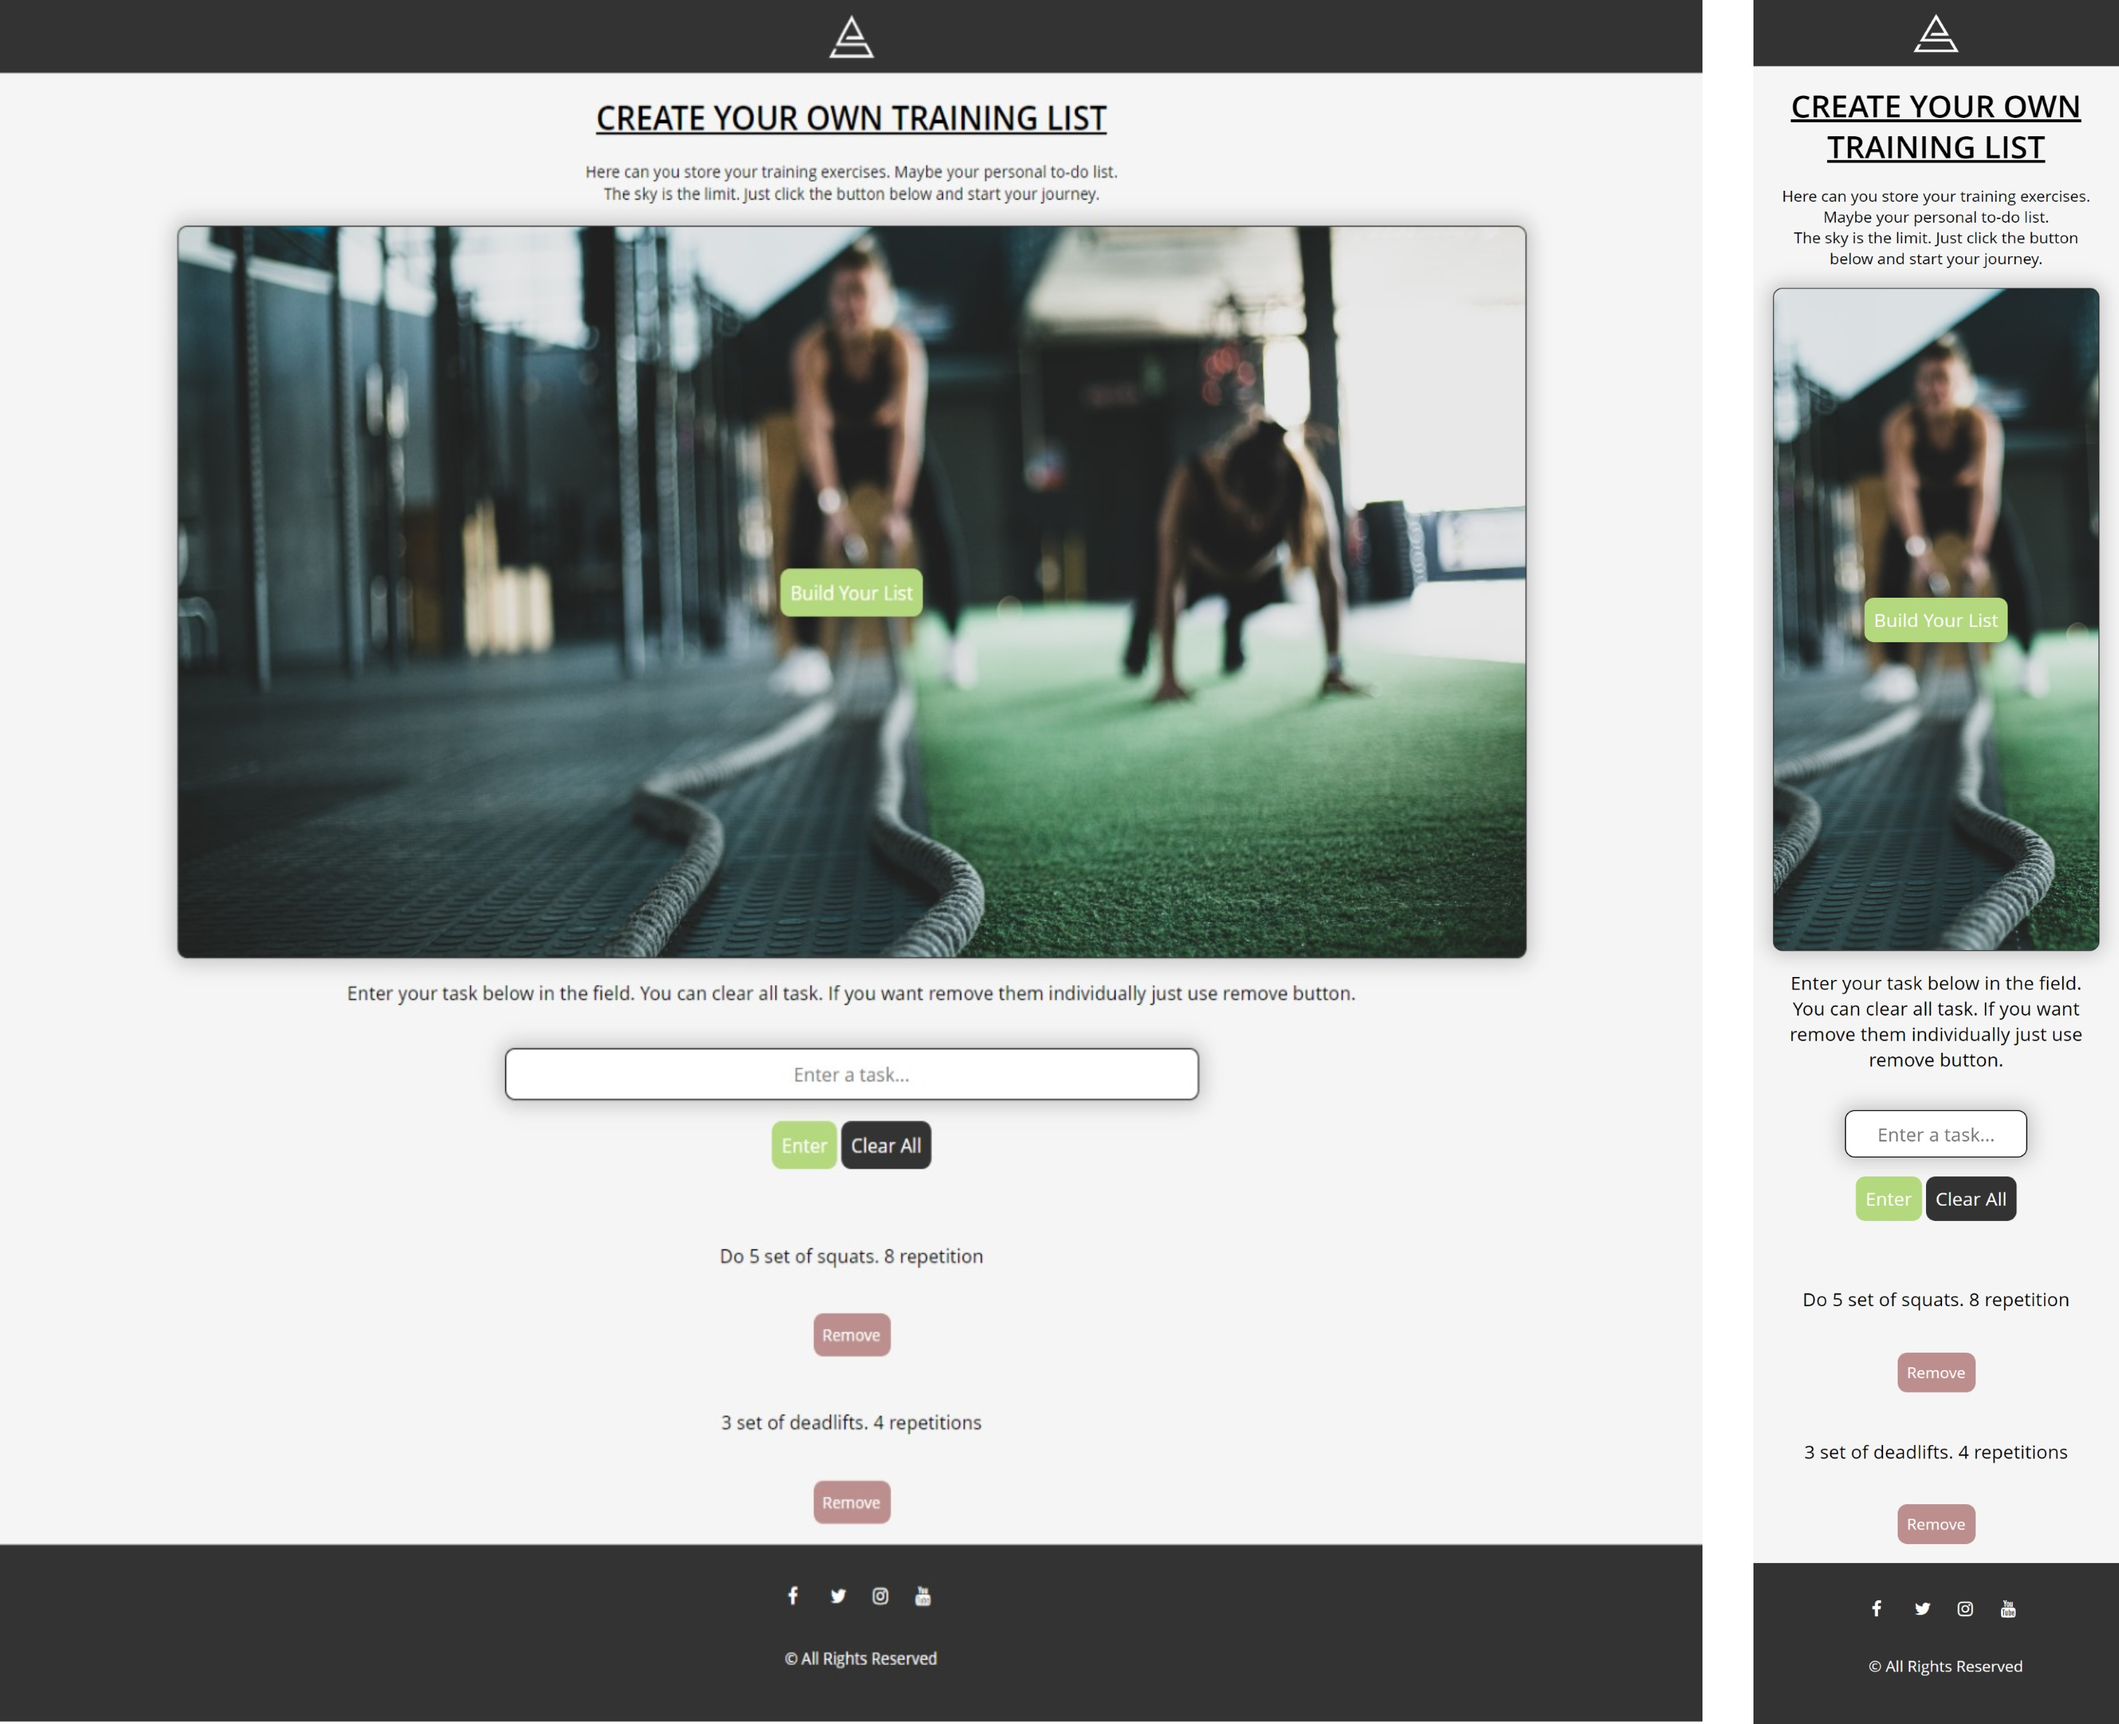
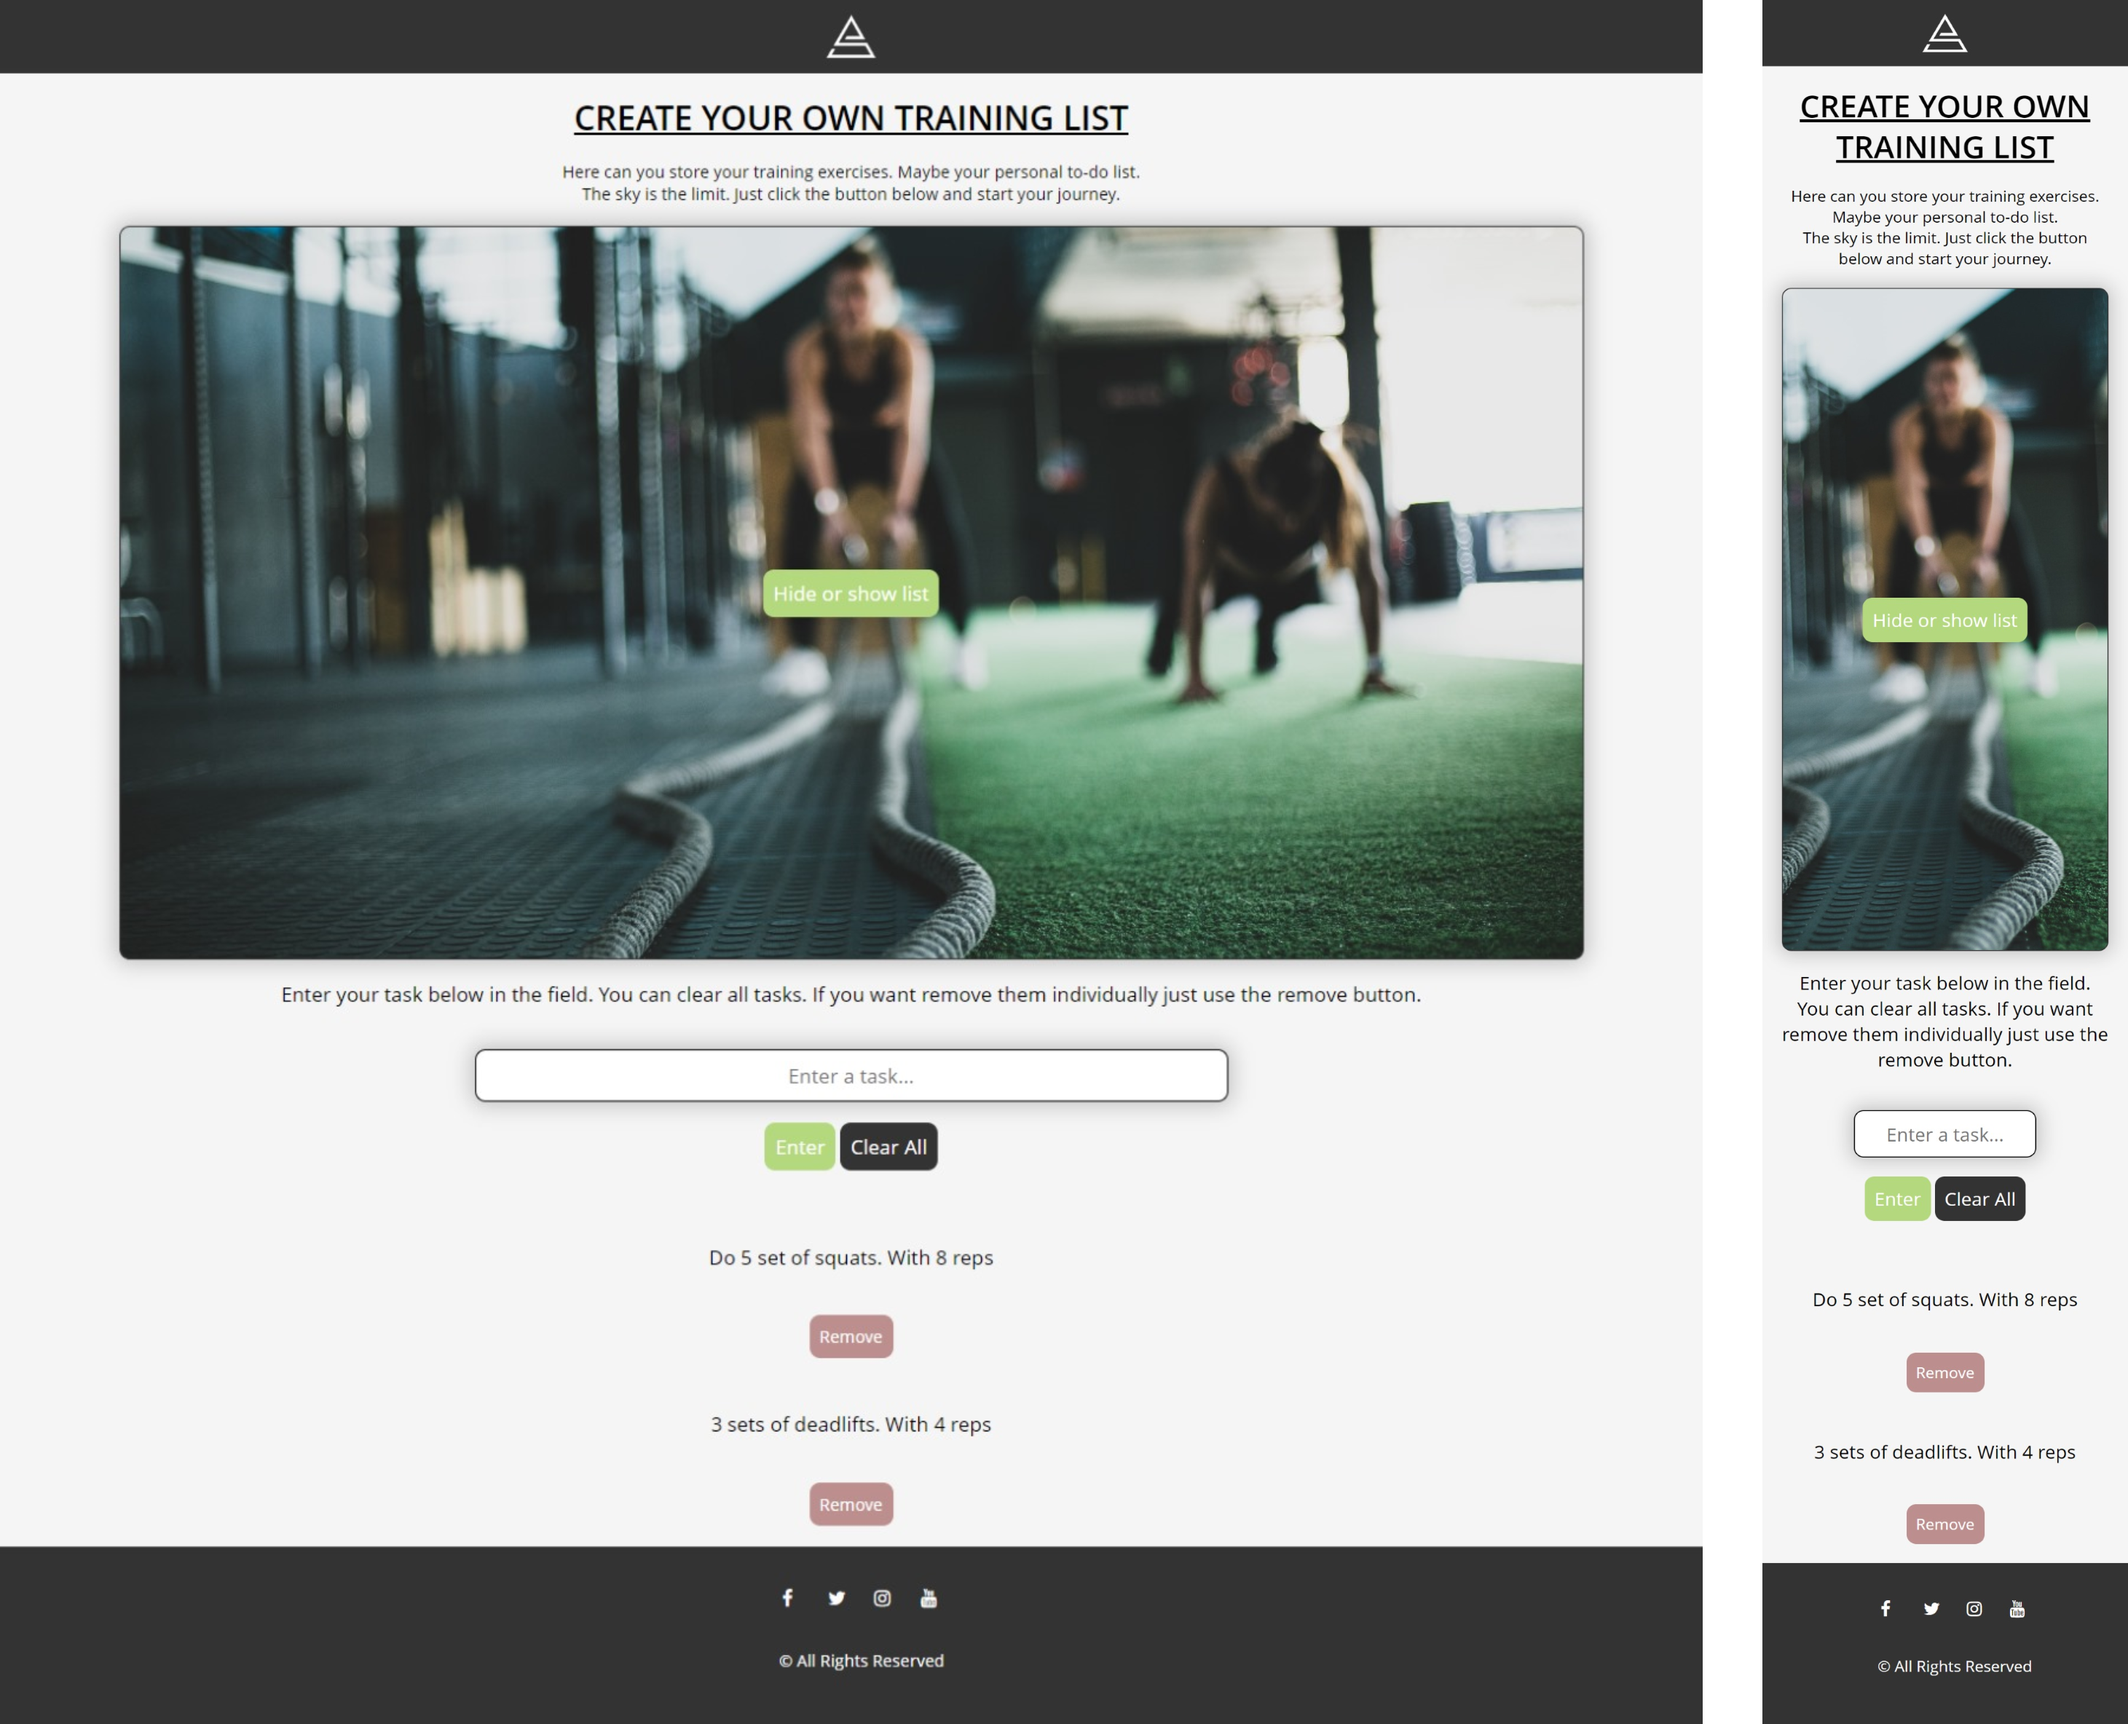
Added new wireframe and updated readme file. Also added new javascript code to the script.js file.

diff --git a/assets/js/script.js b/assets/js/script.js
@@ -3,7 +3,6 @@ const itemsArray = localStorage.getItem('items') ? JSON.parse(localStorage.getIt
 const clearLocalStorageButton = document.getElementById('clearLocalStorage');
 
 // Create a new item
-
 document.querySelector('#enter').addEventListener('click', () => {
   const item = document.querySelector('#item');
   createItem(item);
@@ -21,7 +20,6 @@ function createItem(item){
 }
 
 // clear local storage
-
 clearLocalStorageButton.addEventListener('click', () => {
   localStorage.clear();
   location.reload();
@@ -39,7 +37,7 @@ for (let i = 0; i < itemsArray.length; i++) {
     <div class="edit-controller">
     </div>
   </div>
-  <div class="update-field">
+  <div>
     <button class="removeItem">Remove</button>
   </div>
 </div>`;
@@ -49,7 +47,6 @@ for (let i = 0; i < itemsArray.length; i++) {
 }
 
 // Remove item 
-
 function activateRemoveItem(){
   let removeItemButton = document.querySelectorAll('.removeItem');
   removeItemButton.forEach((removeItemButton, i) => {

diff --git a/index.html b/index.html
@@ -22,7 +22,7 @@
   <h1>Create Your Own Training List</h1>
   <p>Here can you store your training exercises. Maybe your personal to-do list.<br>The sky is the limit. Just click the button below and start your journey.</p>
   <div class="img">
-    <button class="toggleBtn" onclick="toggle()">Build Your List</button>
+    <button class="toggleBtn" onclick="toggle()">Hide or show list</button>
   </div>
   <section>
     <div class="">

diff --git a/README.md b/README.md
@@ -130,7 +130,7 @@ Footer on mobile:
 
 ### Enter Task
 
-- When you click on the text field you will be able to enter a task. It will be added to the list. And all the task you will enter will be stored in local storage. Just click the enter button on the screen to store it. After you have entered a task the page will reload.
+- When you click on the text field you will be able to enter a task. It will be added to the list. And all the task you will enter will be stored in local storage. Just click the enter button on the screen to store it. After you have entered a task the page will reload. If you don't enter a task and click the enter button you will get an alert message.
 
 ### Clear All
 
@@ -213,7 +213,7 @@ The list it also tested on responsivedesignchecker.com.
 ### Enter Button
 
 - The enter button is working and will show the correct task you have entered.
-And will reload the page.
+And will reload the page. If you don't enter a task and click the enter button you will get an alert message.
 
 ### Clear All Button
 
